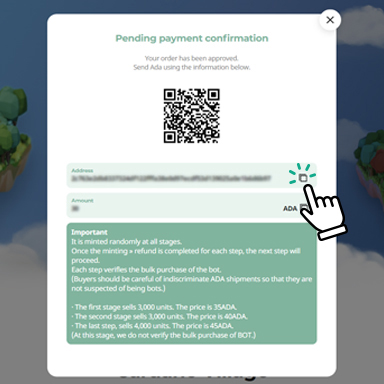
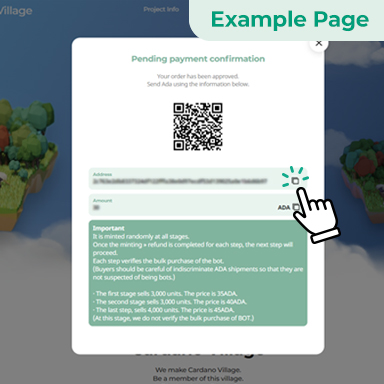
수정

diff --git a/src/styles/css/subpageTop.scss b/src/styles/css/subpageTop.scss
@@ -369,6 +369,7 @@
   .guideImg {
     display: inline-block;
     width: 30%;
+    position: relative;
     img {
       max-width: 100%;
       -webkit-box-shadow: 0px 0px 10px rgba(129, 180, 158, 0.2);
@@ -395,6 +396,13 @@
       }
     }
   }
+}
+.guideName b {
+  color: #666;
+  font-size: 16px;
+  width: 100%;
+  font-weight: 400;
+  display: inline-block;
 }
 .wrapBlue {
   width: 100%;
@@ -766,7 +774,6 @@
         font-size: 14px;
         line-height: 40px;
         color: #81b49e;
-        background: #fff;
         font-family: "Noto Sans", sans-serif;
         border: solid 2px #e7f1ec;
         font-weight: 700;
@@ -778,7 +785,6 @@
       select:focus {
         border: solid 2px #81b49e;
         outline: none;
-        background: #fff;
         color: #222;
       }
       .btnFilterSearch {
@@ -1013,6 +1019,11 @@
   }
   .guideWrap .guideTitle .guideName {
     font-size: 16px;
+  }
+  .guideName b {
+    font-size: 13px;
+    line-height: 16px;
+    display: inline-block;
   }
   .aboutWrap .row.half img {
     width: 50%;

diff --git a/src/styles/css/style.css b/src/styles/css/style.css
@@ -14,9 +14,16 @@
   letter-spacing: -0.025em;
 }
 select {
-  -webkit-appearance: none;
-  -moz-appearance: none;
+  box-shadow: none;
   appearance: none;
+  -moz-appearance: none;
+  -webkit-appearance: none;
+  background: -webkit-linear-gradient(transparent, transparent);
+  background: url("../img/iconDownG.svg") #fff 90% no-repeat;
+  background-size: 10px;
+}
+select::-ms-expand {
+  display: none;
 }
 img {
   -webkit-touch-callout: none !important;

diff --git a/src/screens/Guide.jsx b/src/screens/Guide.jsx
@@ -53,7 +53,11 @@ function Guide() {
             </div>
             <br />
             <div className="guideImg">
-              <img src="/img/guide3.jpg" alt="guide"></img>
+              <img src="/img/guide3.jpg" alt="guide" />
+              <div className="guideName">
+                <br />
+                <b> ※ Please refer to the detailed steps in Faq.</b>
+              </div>
             </div>
           </div>
         </div>
